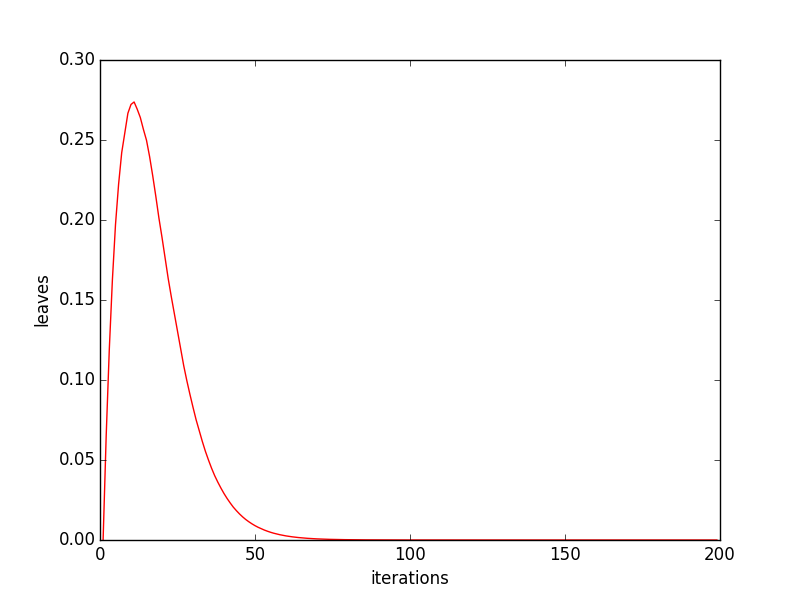
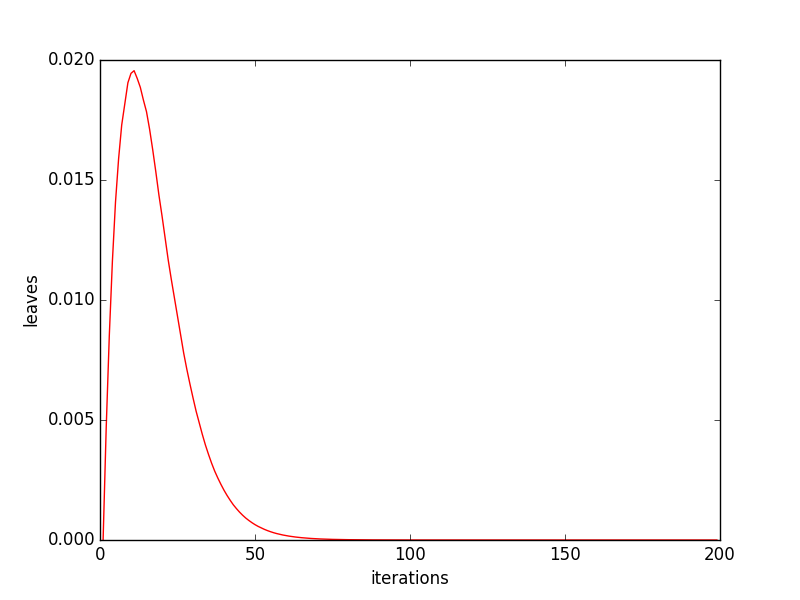
leaves info added

diff --git a/after_year/article.tex b/after_year/article.tex
@@ -95,13 +95,37 @@
   
   So we can see that for small number of edges the expected runtime of the algorithm is less then expected runtime of the first phase and this case should be considered separatly.
   
-  Also to prove the upper bound we need to prove that the case when the size of connected component decreases is rare enough.
-  But there are too many cases when the size of the component can decrease and counting their probabilities is a complex problem.
-  
   %TODO посмотри дома тут формулки для листьев
+  Also to prove the upper bound we need to prove that the case when the size of connected component decreases is rare enough.
+  So we need to find the expected number of leaves for each iteration.
+  There are man cases when the number of leaves changes. But finding the probability of being a leaf for the one vertex is a little bit simplier.
+  Assume that our algorithm has already passed $i$ iterations. Consider vertex $v$. It is leaf after $i$ iterations, if:
+  \begin{enumerate}
+   \item there was one iteration when the edge from the conneced component to the $v$ was added (we consider the connected component after $i$ iterations);
+   \item on other steps this edge wasn't removed;
+   \item there were from one to $\lceil \frac{i - 2}{2} \rceil$ pairs of iterations of adding the edge adjacent to the $v$ and removing it;
+  \end{enumerate}
+  
+  So we should sum the probabilities of the cases, for $0$ pairs of iterations, for $1$ pair and so on.
+  
+  For $0$ pairs the probability is following:
+  
+  $$p_0(i) = \sum_{j = 1}^{i - 1} \frac{r}{V^2} \left(\frac{V - 1}{V} \right)^{2(i - 1)} \left(\frac{E - 1}{E}\right)^{i - j - 1}$$
+  
+  The first fraction in the sum is the probability of adding the from the connected component to the $v$ ($r$ is the size of the connected component, but it's unknown at the moment).
+  The second fraction is the probability that on another iterations no edge will be set adjucent to the $v$.
+  The third fraction is the probability of the leaving the edge leading to the $v$  that was set on te iteration $j$. Finally we sum all this probabilities for all possible $j$
+  
+  We can see the graphic of this function for the 15 vertices and 15 edges ($r$ was taken from the experiment results):
+  
+  \includegraphics[height=5cm]{pic/firstPart.png}
+  
+  Actually the experiments showed that number of leaves doesn't decreasse, but it stops to increase on some moment:
   
   \includegraphics[height=5cm]{pic/leaves_v15e15.png}
-  \includegraphics[height=5cm]{pic/firstPart.png}
+  
+  If we manage with finding the exact formulas for the other number of pairs of iterations, we probably can sum them and receive the function like in the picture above. 
+  But it's too complex to find even the exact formula for the case when there's only one pair of iterations.
   
  \section{Random graphs}
  \subsection{Problem statement}
